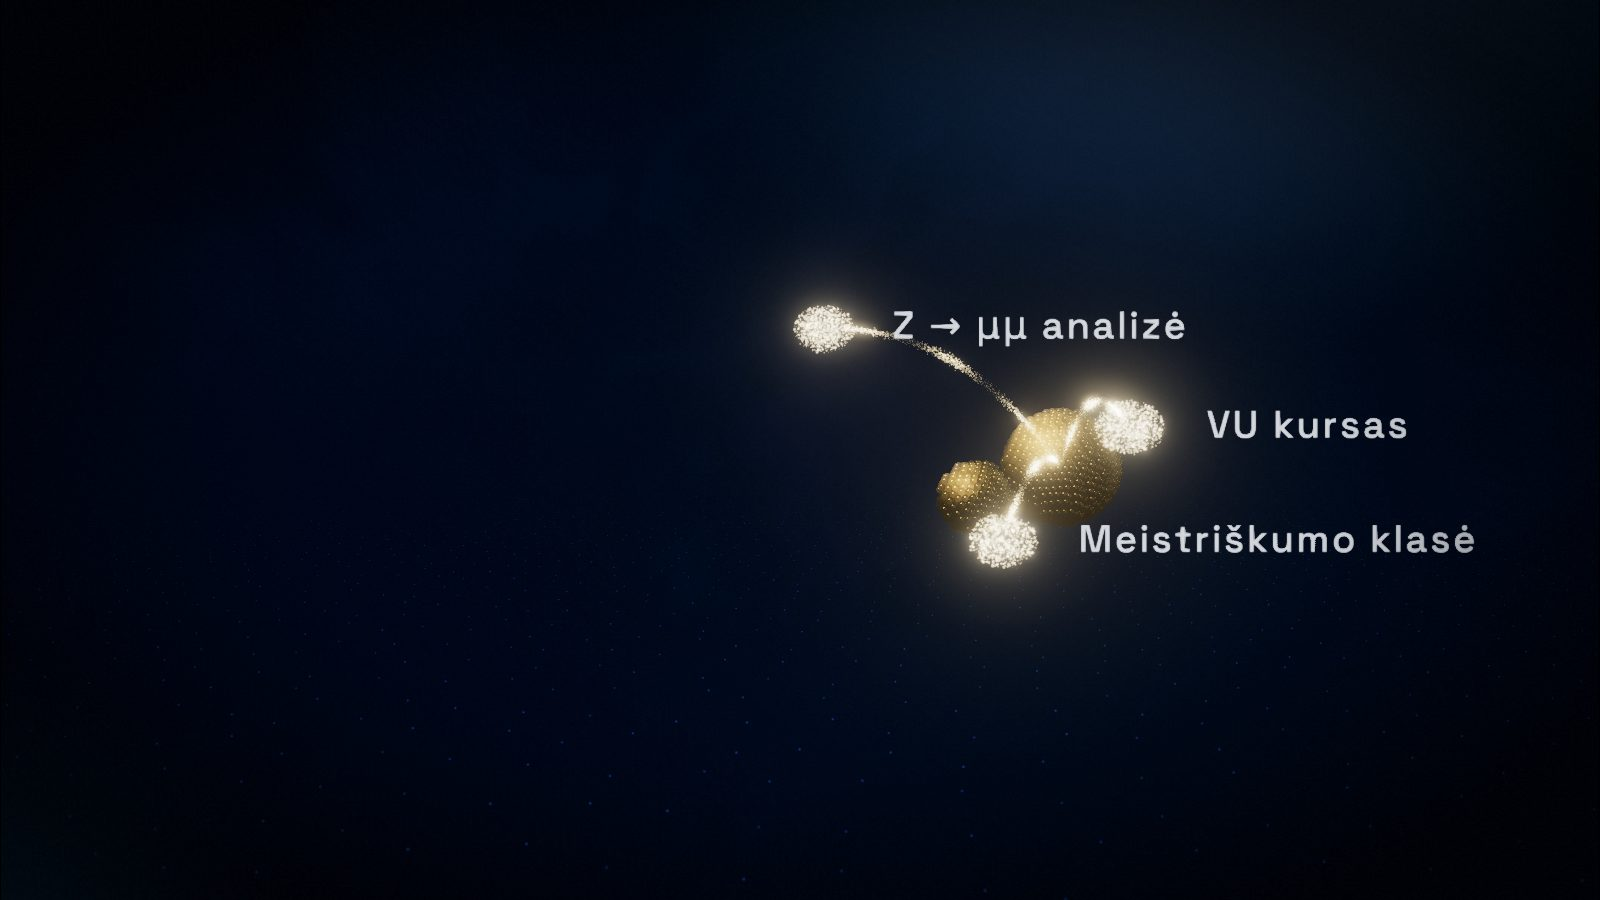
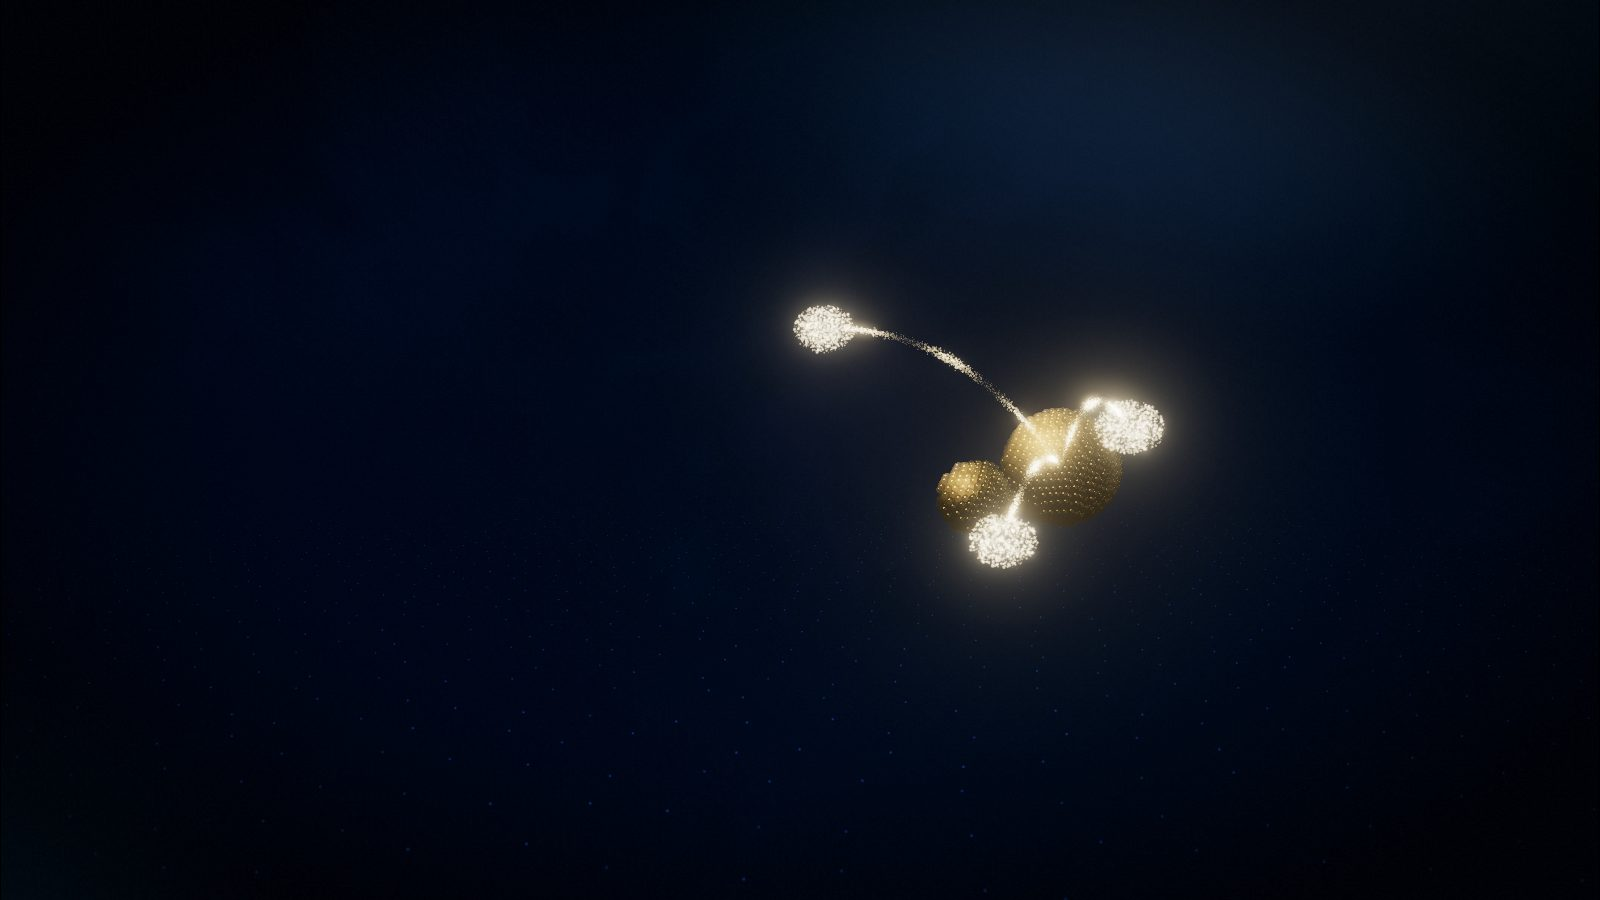
feat(opendata): pictures and numbers only — no titles, statements, kickers or captions
The owner's rule (root CLAUDE.md, 1016ce2): the owner narrates; only
numbers stay on screen. Removed the cover's lines, every kicker and
sentence, slide 10's heading and points, slide 11's chips, slide 12's
name and line, „Ačiū“, and slide 10's stream labels in the world. Kept
the numbers with their units and „76 / 86“; the notes are unchanged.
Still 10 remade without the labels.

Claude-Session: https://claude.ai/code/session_015ci3AXr22gLvDXqMS8LhNF

Changed region(s): [[0.6562, 0.5911, 0.9375, 0.6222], [0.5625, 0.3422, 0.75, 0.3733], [0.75, 0.4356, 0.875, 0.4978]]

diff --git a/talks/2026_10_00_OpenData/styles/index.css b/talks/2026_10_00_OpenData/styles/index.css
@@ -149,6 +149,8 @@ html[data-stage] .finds .big {
   font-size: 168px; font-weight: 700; letter-spacing: -0.05em; line-height: 0.88; margin: 0 0 8px;
   color: #fff;   /* a number: plain white, like the readouts' */
 }
+html[data-stage] .finds .big { white-space: nowrap; }
+html[data-stage] .finds .big .unit { font-size: 0.4em; font-weight: 500; letter-spacing: 0.02em; margin-left: 0.3em; color: var(--od-accent); }   /* the 86 of „76 / 86“, as the readouts' units */
 html[data-stage] .finds .line { font-size: 26px; font-weight: 500; line-height: 1.25; margin: 0 0 26px; color: var(--stage-fg); }
 html[data-stage] .chips { list-style: none; margin: 0; padding: 0; display: flex; flex-direction: column; gap: 10px; }
 html[data-stage] .chips li {

diff --git a/talks/2026_10_00_OpenData/deck.md b/talks/2026_10_00_OpenData/deck.md
@@ -49,12 +49,6 @@ space:
 
 <Grains :set="{ team: 0 }" />
 
-# Atvirųjų duomenų apdovanojimo nominantai
-
-# Atveriame <span class="nt">LHCb</span> duomenis
-
-<div class="mt-md">Mindaugas Šarpis · <span class="nt">LHCb</span> Vilnius · Vilniaus universitetas</div>
-
 <!--
 Message: this talk is about the work we were nominated for, opening LHCb's data.
 
@@ -96,16 +90,6 @@ space: { at: [24.4, -0.6, 5.9], dist: 5.2, yaw: 8, pitch: 30, sway: 10, dim: 0.1
 
 <Grains :set="{ collision: 1, scale: [], 'scale:labels': 0, world: 0, vilnius: 0, dominykas: 0, team: 0 }" />
 
-<div class="readout event">
-
-<p class="kicker">Vienas susidūrimas · 2012 m.</p>
-
-# Z → μμ
-
-<p class="line">Čia Z bozonas suskilo į du miuonus. Šį susidūrimą gali atsisiųsti kiekvienas.</p>
-
-</div>
-
 <!-- facts: lhcb-run3-readout-4tbs -->
 
 <!--
@@ -145,11 +129,7 @@ space: { at: [23.02, 0.1, 6.0], dist: 0.76, yaw: -13.7, pitch: 19.1, dim: 0.2 }
 
 <div class="readout later">
 
-<p class="kicker">Mastelis</p>
-
 <div class="big"><Count name="unit" :from="1" :to="1" /><span class="unit">TB</span></div>
-
-<p class="line">Viena sfera – vienas terabaitas, keliasdešimt milijonų tokių susidūrimų.</p>
 
 </div>
 
@@ -185,11 +165,7 @@ space: { at: [12.5, 1.4, 5.0], dist: 13.8, yaw: 73, pitch: 7.5, dim: 0.15 }
 
 <div class="readout late">
 
-<p class="kicker">Atverti 2023 m. gruodį</p>
-
 <div class="big"><Count name="open" :from="0" :to="800" :delay="2400" /><span class="unit">TB</span></div>
-
-<p class="line">Visi 2011–2012 m. LHCb protonų susidūrimų duomenys. Duomenis paskelbti parengė Mindaugas Šarpis.</p>
 
 </div>
 
@@ -221,11 +197,7 @@ space: { at: [11.5, 2.0, 1.5], dist: 20.8, yaw: 54.8, pitch: 2.8, flight: 5, dim
 
 <div class="readout last">
 
-<p class="kicker">Atverti 2026 m.</p>
-
 <div class="big"><Count name="open" :from="800" :to="4000" :delay="5200" :ms="900" /><span class="unit">TB</span></div>
-
-<p class="line">Dalis 2015–2018 m. duomenų. Iš viso penkis kartus daugiau nei 2023 m.</p>
 
 </div>
 
@@ -251,11 +223,7 @@ space: { at: [3.5, 6.5, -7], dist: 65, yaw: 21.8, pitch: 7.1, sway: 4, dim: 0.15
 
 <div class="readout blue late">
 
-<p class="kicker"><span class="nt">LHCb</span> nuo 2010 m.</p>
-
 <div class="big"><Count name="lhcb" :from="0" :to="100000" :delay="2400" /><span class="unit">TB</span></div>
-
-<p class="line">Iš viso daugiau nei 100 PB. Auksinė dalis priekyje jau atvira.</p>
 
 </div>
 
@@ -287,11 +255,7 @@ space: { at: [-2, 9, -18], dist: 60.1, yaw: -1.9, pitch: 2.9, sway: 4, flight: 5
 
 <div class="readout steel last">
 
-<p class="kicker">Visi LHC eksperimentai, 2025 m. gruodis</p>
-
 <div class="big"><Count name="lhc" :from="0" :to="1000000" :delay="5200" :ms="900" /><span class="unit">TB</span></div>
-
-<p class="line">Vienas eksabaitas – maždaug dešimt kartų daugiau nei LHCb.</p>
 
 </div>
 
@@ -327,11 +291,7 @@ space: { at: [16, 6, -2], dist: 32, yaw: 0, pitch: 1.8, dim: 0.15 }
 
 <div class="readout late">
 
-<p class="kicker">Naudotojai</p>
-
 <div class="big"><Count name="asks" :from="0" :to="20" :delay="2400" /></div>
-
-<p class="line">užklausų LHCb duomenų atrankos paslaugai iki 2026 m. liepos, daugiausia teoretikų.</p>
 
 </div>
 
@@ -357,14 +317,6 @@ space: { at: [12.5, 2.5, 4], dist: 27, yaw: 12, pitch: 2.1, dim: 0.3 }
 ---
 
 <Grains :set="{ scale: [1, 2], 'scale:labels': 0, collision: 0, world: 0, vilnius: 3, dominykas: 0, team: 0 }" />
-
-# Naudojame Vilniuje
-
-<ul class="points">
-<li>Z → μμ: viena pirmųjų LHCb atvirųjų duomenų analizių (2024)</li>
-<li>VU kursas: kiekvienas studentas dirba su atviraisiais duomenimis</li>
-<li>Pirmoji <span class="nt">LHCb</span> meistriškumo klasė Lietuvoje (2025)</li>
-</ul>
 
 <!--
 Message: in Vilnius we use the open data for research and for teaching.
@@ -397,16 +349,7 @@ space: { at: [11.5, 2.0, 1.5], dist: 20.8, yaw: 54.8, pitch: 2.8, dim: 1 }
 <div class="finds">
 <div class="finds-text">
 
-<p class="kicker">Ką <span class="nt">LHCb</span> rado savo duomenyse</p>
-
-<div class="big">76</div>
-
-<p class="line">iš 86 naujų hadronų, atrastų LHC eksperimentuose</p>
-
-<ul class="chips">
-<li><b>2015</b> Pentakvarkai, penkių kvarkų dalelės</li>
-<li><b>2025</b> Materija ir antimaterija barionuose elgiasi skirtingai</li>
-</ul>
+<div class="big">76<span class="unit">/ 86</span></div>
 
 </div>
 <div class="finds-plot"><img src="/figures/pentaquarks_2019.png" alt="LHCb 2019 m.: trys siauros pentakvarkų smailės, Pc(4312), Pc(4440), Pc(4457), su pritaikyta kreive" /></div>
@@ -444,12 +387,6 @@ space: { at: thesis, dim: 1 }
 <div class="thesis-who">
 
 <img class="portrait" src="/figures/people/dominykas-stonkus.jpg" alt="Dominykas Stonkus" />
-
-<p class="kicker">Bakalauro darbas, VU, 2026</p>
-
-<p class="name">Dominykas Stonkus</p>
-
-<p class="line">Atviruosiuose 2012&nbsp;m. <span class="nt">LHCb</span> duomenyse jis rado pakilimą ten pat, kur LHCb 2015&nbsp;m. atrado pentakvarkus.</p>
 
 </div>
 <div class="thesis-plot">
@@ -496,8 +433,6 @@ space: { at: [53, 2.8, 160], dist: 27, yaw: 0, pitch: 3, dim: 0.2 }
 ---
 
 <Grains :set="{ team: 1, collision: 0, world: 0, vilnius: 0, dominykas: 0 }" />
-
-<div class="thanks">Ačiū</div>
 
 <!--
 Message: this is the work we were nominated for, and the people who did it.

diff --git a/talks/2026_10_00_OpenData/HANDOFF.md b/talks/2026_10_00_OpenData/HANDOFF.md
@@ -88,6 +88,19 @@ the owner's word.
 
 ## Decisions
 
+- 2026-10-10. No titles, statements, kickers or captions on any slide, the
+  cover included (owner, via the Scheduler: "No titles, statements - I will
+  be there … What can stay is the numbers. I will narrate myself"; root
+  CLAUDE.md, main 1016ce2). Gone: the cover's three lines, slide 3's
+  readout, every kicker and sentence of the readouts (slides 4–9), slide
+  10's heading and points, slide 11's kicker, line and chips, slide 12's
+  kicker, name and line, slide 13's „Ačiū“, and slide 10's stream labels in
+  the world (`label` in space.json). Kept: the numbers with their units (1,
+  800, 4 000, 100 000, 1 000 000 TB; 20; „76 / 86“, the 86 styled as a
+  unit), the pile labels (numbers), the plots, the portraits, the notes.
+  No credits on screen (owner: "it's cern license, I'm CERN user"); none
+  were left. Still 10 remade (its labels are gone). Undo: this commit's
+  parent.
 - 2026-10-09. v0.7.0: `stage:check` warns (`unsaid-clock`) about a builder
   that moves on its own clock without saying so. The streams, the portraits
   and the collision now return `api.busy` (a stream filling its arc, 1/speed
